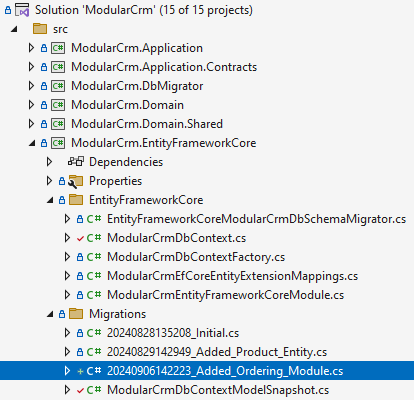
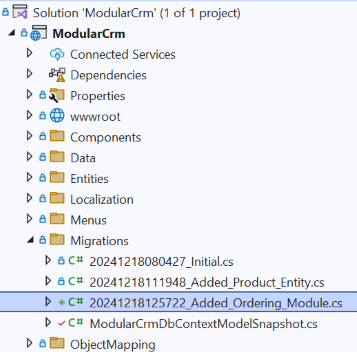
Update modular CRM tutorial to correct project structure references and improve clarity for the Ordering module

diff --git a/docs/en/tutorials/modular-crm/part-05.md b/docs/en/tutorials/modular-crm/part-05.md
@@ -28,7 +28,7 @@ Create an `Order` class to the `ModularCrm.Ordering` project (open an `Entities`
 
 ````csharp
 using System;
-using ModularCrm.Ordering.Contracts.Enums;
+using ModularCrm.Ordering.Enums;
 using Volo.Abp.Domain.Entities.Auditing;
 
 namespace ModularCrm.Ordering.Entities
@@ -156,7 +156,7 @@ public static class OrderingDbContextModelCreatingExtensions
 
 #### Configuring the Main Application
 
-Open the main application's solution in your IDE, find the `ModularCrmDbContext` class under the `ModularCrm.EntityFrameworkCore` project and follow the 3 steps below:
+Open the main application's solution in your IDE, find the `ModularCrmDbContext` class under the `ModularCrm` project `Data` folder and follow the 3 steps below:
 
 **(1)** Add the following attribute on top of the `ModularCrmDbContext` class:
 
@@ -171,8 +171,6 @@ The `ReplaceDbContext` attribute allows the use of the `ModularCrmDbContext` cla
 ````csharp
 public class ModularCrmDbContext :
     AbpDbContext<ModularCrmDbContext>,
-    ITenantManagementDbContext,
-    IIdentityDbContext,
     IProductsDbContext,
     IOrderingDbContext //NEW: IMPLEMENT THE INTERFACE
 {
@@ -200,7 +198,7 @@ Now, we can add a new database migration. You can use Entity Framework Core's `A
 
 Ensure that the solution has built. You can right-click the `ModularCrm` (under the `main` folder) on ABP Studio *Solution Runner* and select the *Dotnet CLI* -> *Graph Build* command.
 
-Right-click the `ModularCrm.EntityFrameworkCore` package and select the *EF Core CLI* -> *Add Migration* command:
+Right-click the `ModularCrm` package and select the *EF Core CLI* -> *Add Migration* command:
 
 ![abp-studio-add-entity-framework-core-migration](images/abp-studio-add-entity-framework-core-migration.png)
 
@@ -208,11 +206,11 @@ The *Add Migration* command opens a new dialog to get a migration name:
 
 ![abp-studio-entity-framework-core-add-migration-order](images/abp-studio-entity-framework-core-add-migration-order.png)
 
-Once you click the *OK* button, a new database migration class is added to the `Migrations` folder of the `ModularCrm.EntityFrameworkCore` project:
+Once you click the *OK* button, a new database migration class is added to the `Migrations` folder of the `ModularCrm` project:
 
 ![visual-studio-new-migration-class-2](images/visual-studio-new-migration-class-2.png)
 
-Now, you can return to ABP Studio, right-click the `ModularCrm.EntityFrameworkCore` project and select the *EF Core CLI* -> *Update Database* command:
+Now, you can return to ABP Studio, right-click the `ModularCrm` project and select the *EF Core CLI* -> *Update Database* command:
 
 ![abp-studio-entity-framework-core-update-database](images/abp-studio-entity-framework-core-update-database.png)
 
@@ -347,14 +345,14 @@ public class OrderAppService : OrderingAppService, IOrderAppService
 }
 ````
 
-Open the `ModularCrmWebModule` class in the main application's solution (the `ModularCrm` solution), find the `ConfigureAutoApiControllers` method and add the following lines inside that method:
+Open the `ModularCrmModule` class in the main application's solution (the `ModularCrm` solution), find the `ConfigureAutoApiControllers` method and add the following lines inside that method:
 
 ````csharp
 private void ConfigureAutoApiControllers()
 {
     Configure<AbpAspNetCoreMvcOptions>(options =>
     {
-        options.ConventionalControllers.Create(typeof(ModularCrmApplicationModule).Assembly);
+        options.ConventionalControllers.Create(typeof(ModularCrmModule).Assembly);
         options.ConventionalControllers.Create(typeof(ProductsApplicationModule).Assembly);
 
         //ADD THE FOLLOWING LINE:
@@ -369,7 +367,7 @@ This section will create a few example orders using the [Swagger UI](../../frame
 
 Now, right-click the `ModularCrm` under the `main` folder in the Solution Explorer panel and select the *Dotnet CLI* -> *Graph Build* command. This will ensure that the order module and the main application are built and ready to run.
 
-After the build process completes, open the Solution Runner panel and click the *Play* button near the solution root. Once the `ModularCrm.Web` application runs, we can right-click it and select the *Browse* command to open the user interface.
+After the build process completes, open the Solution Runner panel and click the *Play* button near the solution root. Once the `ModularCrm` application runs, we can right-click it and select the *Browse* command to open the user interface.
 
 Once you see the user interface of the web application, type `/swagger` at the end of the URL to open the Swagger UI. If you scroll down, you should see the `Orders` API:
 
@@ -487,11 +485,11 @@ public class OrderingMenuContributor : IMenuContributor
 
 ### Building the Application
 
-Now, we will run the application to see the result. Please stop the application if it is already running. Then open the *Solution Runner* panel, right-click the `ModularCrm.Web` application, and select the *Build* -> *Graph Build* command:
+Now, we will run the application to see the result. Please stop the application if it is already running. Then open the *Solution Runner* panel, right-click the `ModularCrm` application, and select the *Build* -> *Graph Build* command:
 
 ![abp-studio-solution-runner-graph-build](images/abp-studio-solution-runner-graph-build.png)
 
-We've performed a graph build since we've made a change on a module, and more than building the main application is needed. *Graph Build* command also builds the depended modules if necessary. Alternatively, you could build the Ordering module first (on ABP Studio or your IDE). This approach can be faster if you have too many modules and you make a change in one of the modules. Now you can run the application by right-clicking the `ModularCrm.Web` application and selecting the *Start* command.
+We've performed a graph build since we've made a change on a module, and more than building the main application is needed. *Graph Build* command also builds the depended modules if necessary. Alternatively, you could build the Ordering module first (on ABP Studio or your IDE). This approach can be faster if you have too many modules and you make a change in one of the modules. Now you can run the application by right-clicking the `ModularCrm` application and selecting the *Start* command.
 
 ![abp-studio-browser-orders-menu-item](images/abp-studio-browser-orders-menu-item.png)
 
